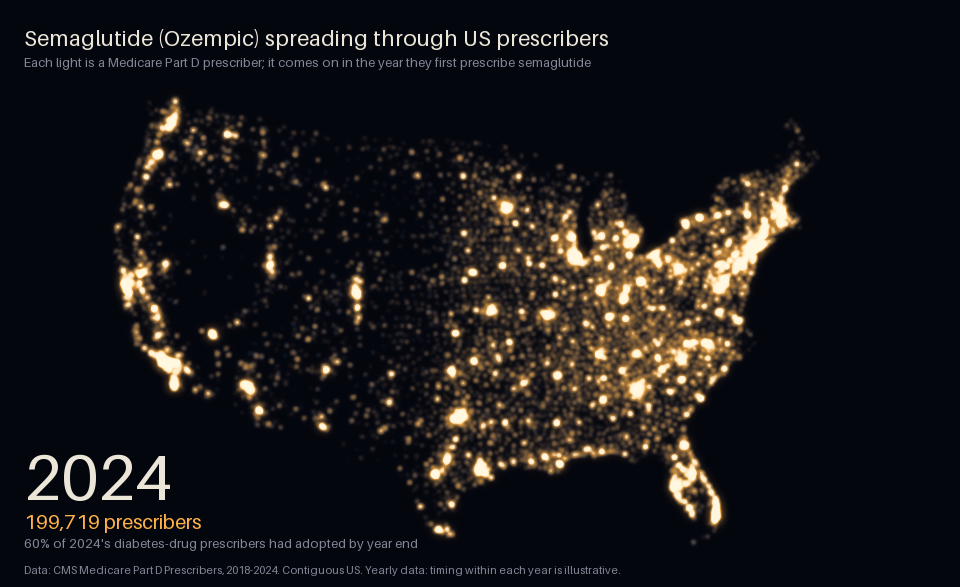
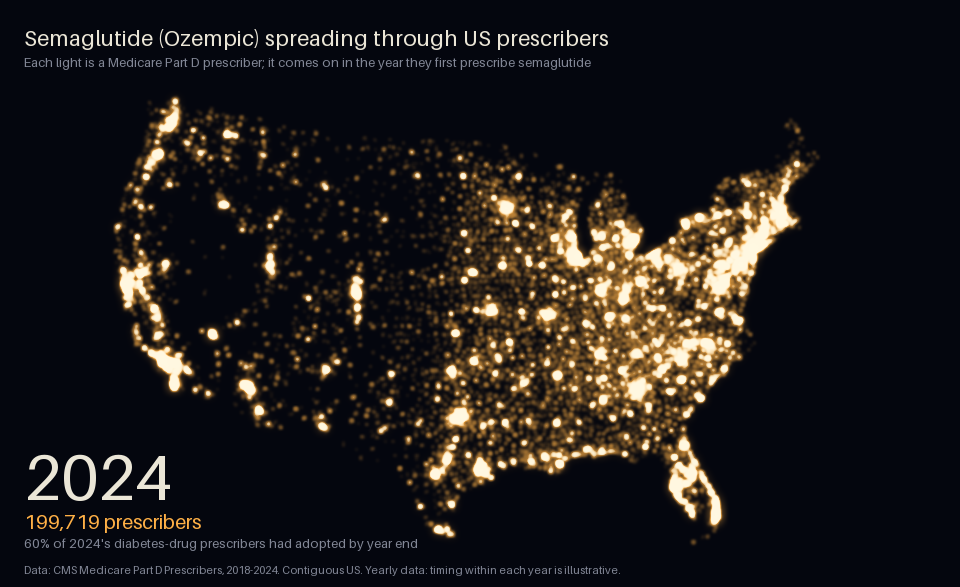
Draw only adopters on the night-lights map by default
The blue population-at-risk layer is now optional
(--show-population-at-risk). Single lights are brighter so the first
year's adopters show. Data notes: a claim is a fill, so adoption can mean
one or two patients.

diff --git a/src/semaglutide_spread/viz/night_lights.py b/src/semaglutide_spread/viz/night_lights.py
@@ -1,9 +1,10 @@
 """Animate semaglutide's spread across the US as a "night-lights" map.
 
-Each prescriber in the population at risk is a faint blue speck, so the map of US diabetes
-prescribing appears on its own, without drawn borders. When a prescriber adopts semaglutide
-their light comes on: a bright flash that settles into a steady warm glow. Places with many
-adopters glow brighter, like cities seen from space at night.
+The map starts dark. When a prescriber adopts semaglutide their light comes on: a bright flash
+that settles into a steady warm glow. Places with many adopters glow brighter, like cities seen
+from space at night. With --show-population-at-risk, every prescriber of any diabetes drug is
+also drawn as a faint blue speck (the denominator), so the country's outline is there from the
+start.
 
 Steps:
 1. Read adopters (adoption year, location) and each year's population at risk from the
@@ -24,6 +25,7 @@ Outputs: docs/images/us_night_lights.gif and docs/images/us_night_lights_<last y
 Usage:
     uv run night-lights
     uv run night-lights --width 1600 --frames-per-year 12   # bigger, smoother, larger file
+    uv run night-lights --show-population-at-risk           # add the blue denominator layer
 """
 
 from __future__ import annotations
@@ -221,19 +223,22 @@ def year_of(t: float, data: MapData) -> int:
     return min(int(t - 1e-9), data.last_year)
 
 
-def render_frame(data: MapData, grid: PixelGrid, t: float) -> np.ndarray:
+def render_frame(
+    data: MapData, grid: PixelGrid, t: float, show_at_risk: bool = False
+) -> np.ndarray:
     """One RGB frame (uint8) at time t (in years)."""
     shape = (grid.height, grid.width)
     year = year_of(t, data)
 
-    rx, ry = data.at_risk[year]
-    at_risk = accumulate(rx, ry, np.ones_like(rx), shape)
-    at_risk = tone(glow(at_risk, 1) * 3, 0.2)
+    at_risk = np.zeros(shape)
+    if show_at_risk:
+        rx, ry = data.at_risk[year]
+        at_risk = tone(glow(accumulate(rx, ry, np.ones_like(rx), shape), 1) * 3, 0.2)
 
     weights = light_curve(t - data.adopter_time)
     lit = weights > 0
     adopters = accumulate(data.adopter_x[lit], data.adopter_y[lit], weights[lit], shape)
-    core = tone(glow(adopters, 1) * 3, 0.16)
+    core = tone(glow(adopters, 1) * 3, 0.3)
     halo = tone(glow(adopters, 4) * 3, 0.06)
 
     warm = np.clip(0.8 * core + 0.35 * halo, 0, 1)[..., None]
@@ -318,6 +323,7 @@ def render(
     frames_per_year: int = 8,
     frame_ms: int = 90,
     hold_ms: int = 4000,
+    show_at_risk: bool = False,
 ) -> tuple[Path, Path]:
     """Draw every frame from the warehouse behind `con`; save the GIF and the final PNG."""
     grid = PixelGrid(width, margin=int(20 * width / 960), top=int(70 * width / 960))
@@ -327,7 +333,7 @@ def render(
     frames = []
     for t in frame_times(data.first_year, data.last_year, frames_per_year):
         adopted = int((data.adopter_time <= t).sum())
-        frames.append(annotate(render_frame(data, grid, t), data, t, adopted))
+        frames.append(annotate(render_frame(data, grid, t, show_at_risk), data, t, adopted))
 
     out_dir.mkdir(parents=True, exist_ok=True)
     png_path = out_dir / f"us_night_lights_{data.last_year}.png"
@@ -350,10 +356,20 @@ def main(argv: list[str] | None = None) -> int:
     parser = argparse.ArgumentParser(description=__doc__.split("\n")[0])
     parser.add_argument("--width", type=int, default=960, help="image width in pixels")
     parser.add_argument("--frames-per-year", type=int, default=8)
+    parser.add_argument(
+        "--show-population-at-risk",
+        action="store_true",
+        help="also draw every diabetes-drug prescriber as a faint blue speck",
+    )
     args = parser.parse_args(argv)
     logging.basicConfig(level=logging.INFO, format="%(asctime)s %(levelname)s %(message)s")
     with duckdb.connect(str(WAREHOUSE_PATH), read_only=True) as con:
-        render(con, width=args.width, frames_per_year=args.frames_per_year)
+        render(
+            con,
+            width=args.width,
+            frames_per_year=args.frames_per_year,
+            show_at_risk=args.show_population_at_risk,
+        )
     return 0
 
 

diff --git a/docs/data-notes.md b/docs/data-notes.md
@@ -71,6 +71,7 @@ Medicare Part D may not pay for drugs used for weight loss. Ozempic and Rybelsus
 
 ### What "first year" can and cannot mean
 - **It is the first year a prescriber becomes visible, not their first prescription.** A prescriber who wrote 5 semaglutide prescriptions in 2019 and 40 in 2020 adopts in 2020 here. Early, light use is hidden by the 11-claim rule, so adoption years lean later than the real first prescription, most for prescribers who start slowly.
+- **Adoption can mean one or two patients.** A claim is one prescription fill, refills included, so one patient filling a monthly prescription for a year makes 12 claims: enough to pass the 11-claim rule. In their adoption year, the median adopter had 16 to 20 semaglutide claims (depending on the year), and 89% had a patient count too small for CMS to publish (fewer than 11 for every brand). The data cannot say how many patients each adopter had, or whether they were new to the drug: it has no patient-level records. Each light on the map is one prescriber, however many patients or refills they had.
 - **2018 is the true start.** Ozempic was approved in December 2017 and launched in early 2018, so the data begin at the drug's launch: nobody adopted before the first year of data. (For the UK this has to be checked separately.)
 - **Adoption is counted once.** A prescriber who prescribes semaglutide in 2019, stops, and starts again in 2023 adopted in 2019.
 - **The population at risk changes every year.** Prescribers retire, start practice, or stop prescribing diabetes drugs. Each year's denominator is that year's prescribers of any glucose-lowering drug; adopters who stop prescribing diabetes drugs drop out of it. `cumulative_adopters` in `rpt_adoption_curve` counts everyone who has ever adopted, wherever they are now.
